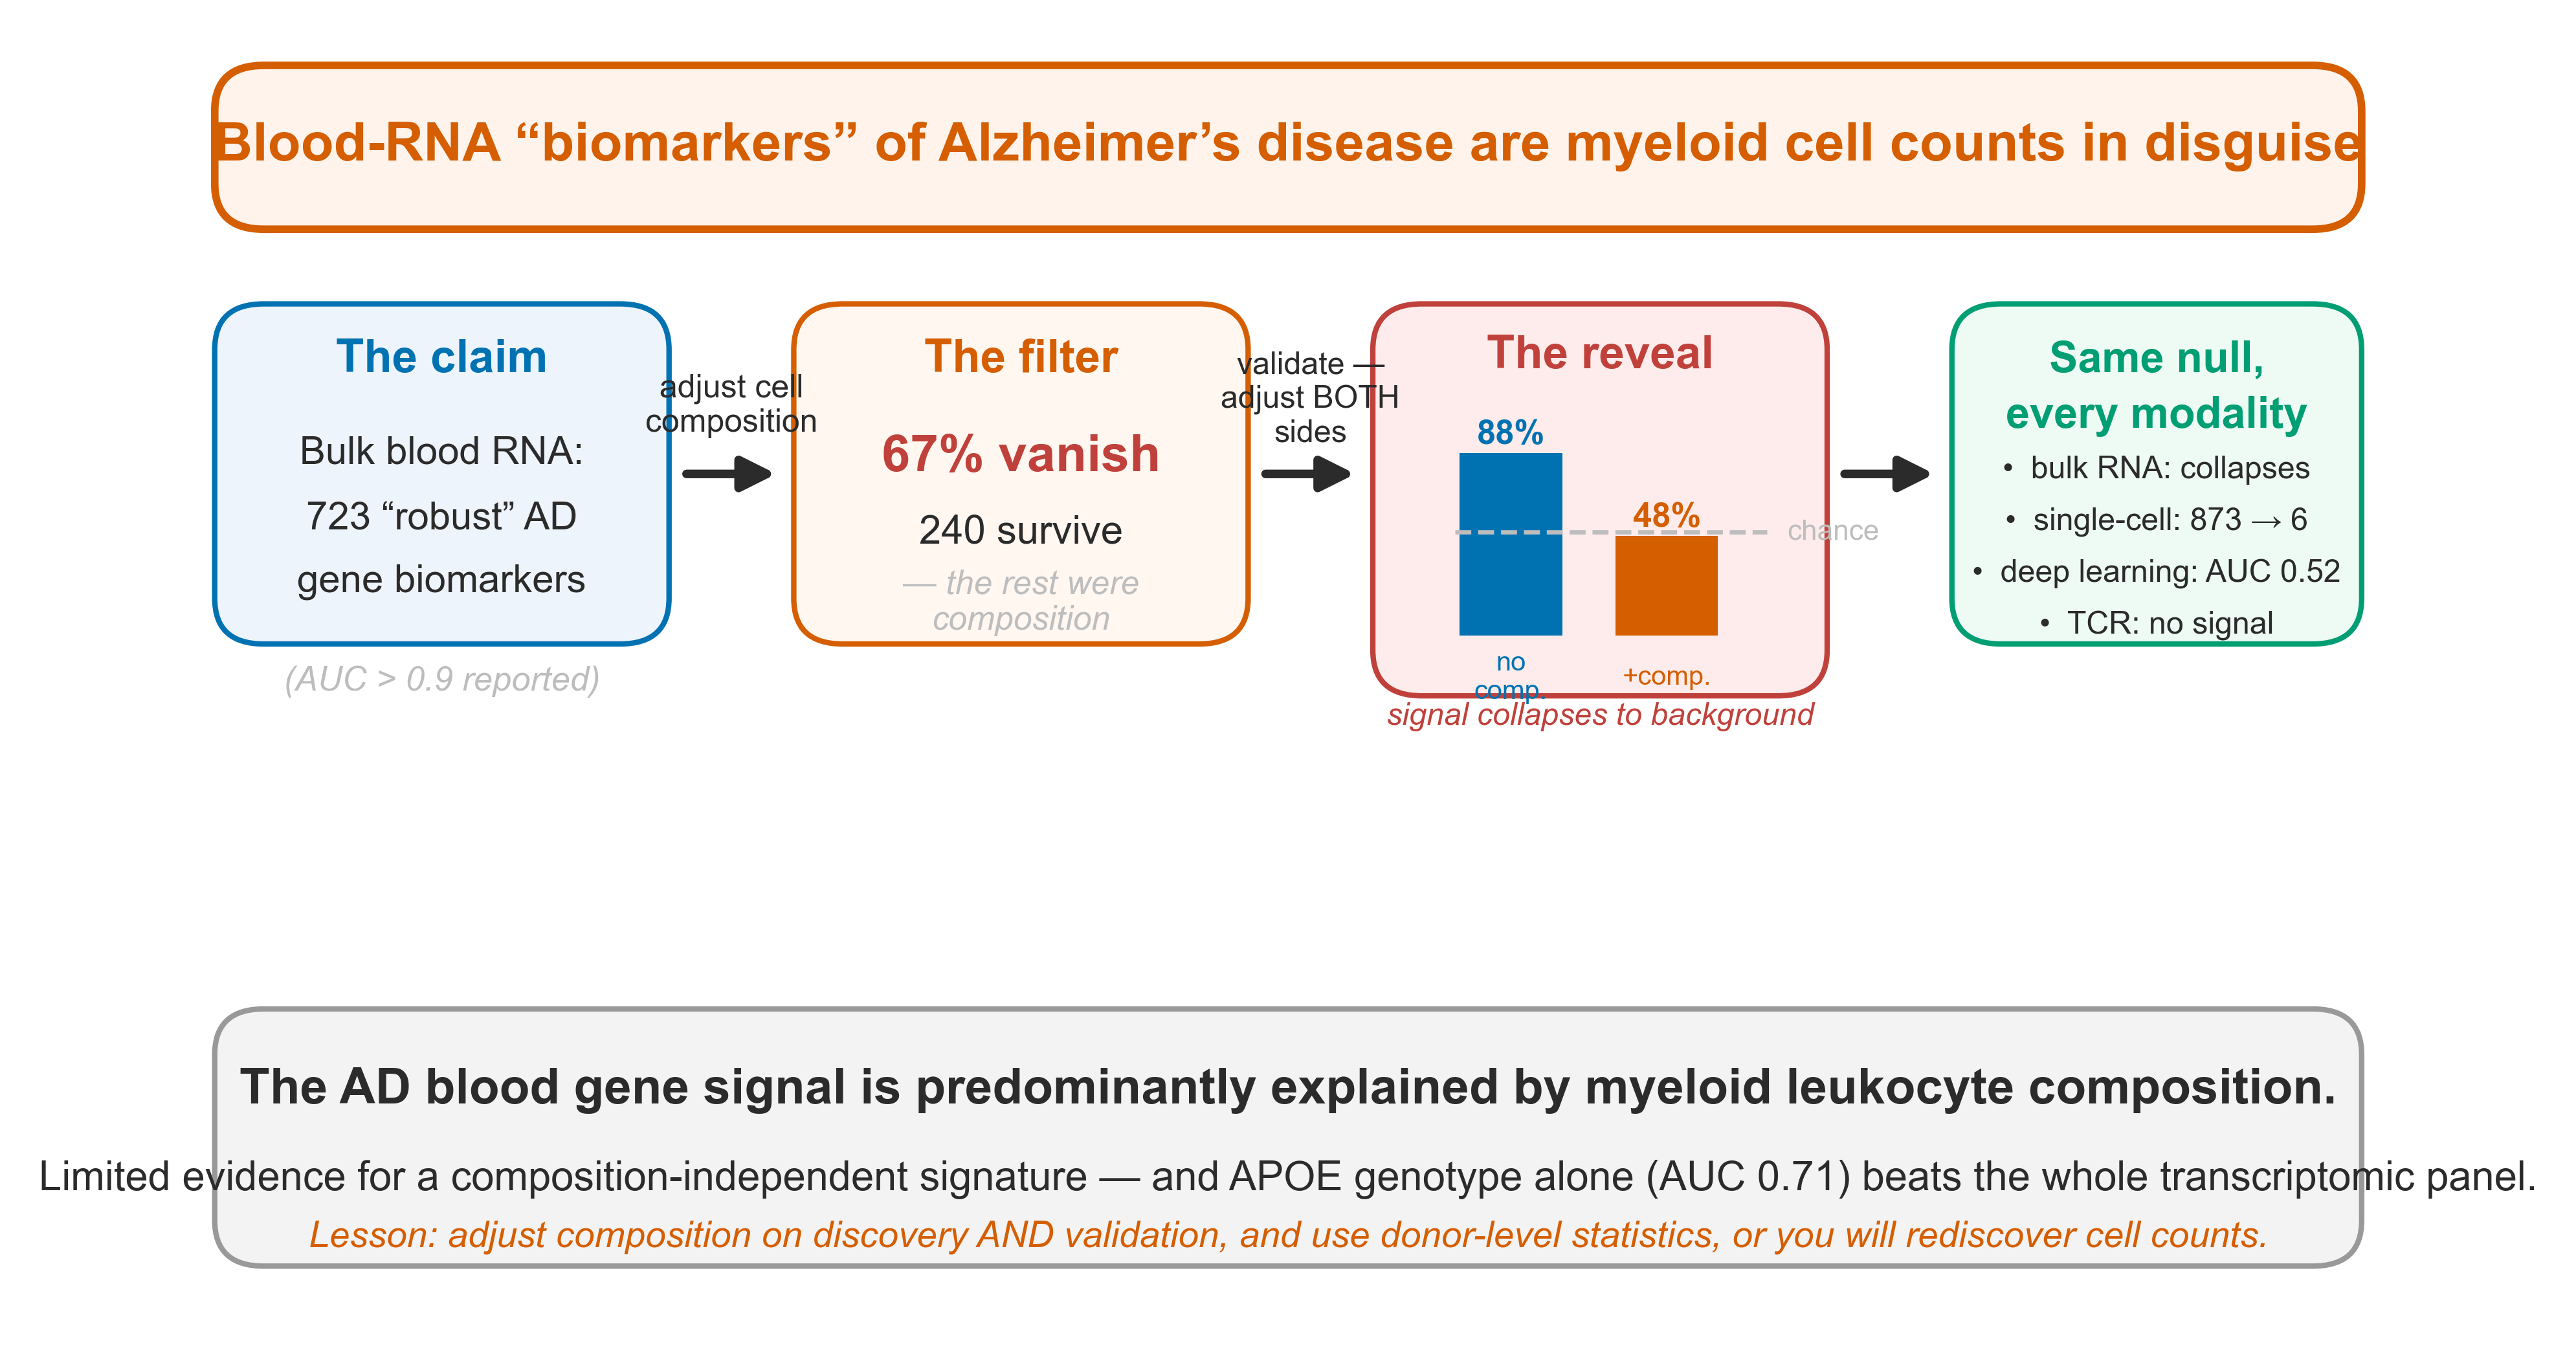
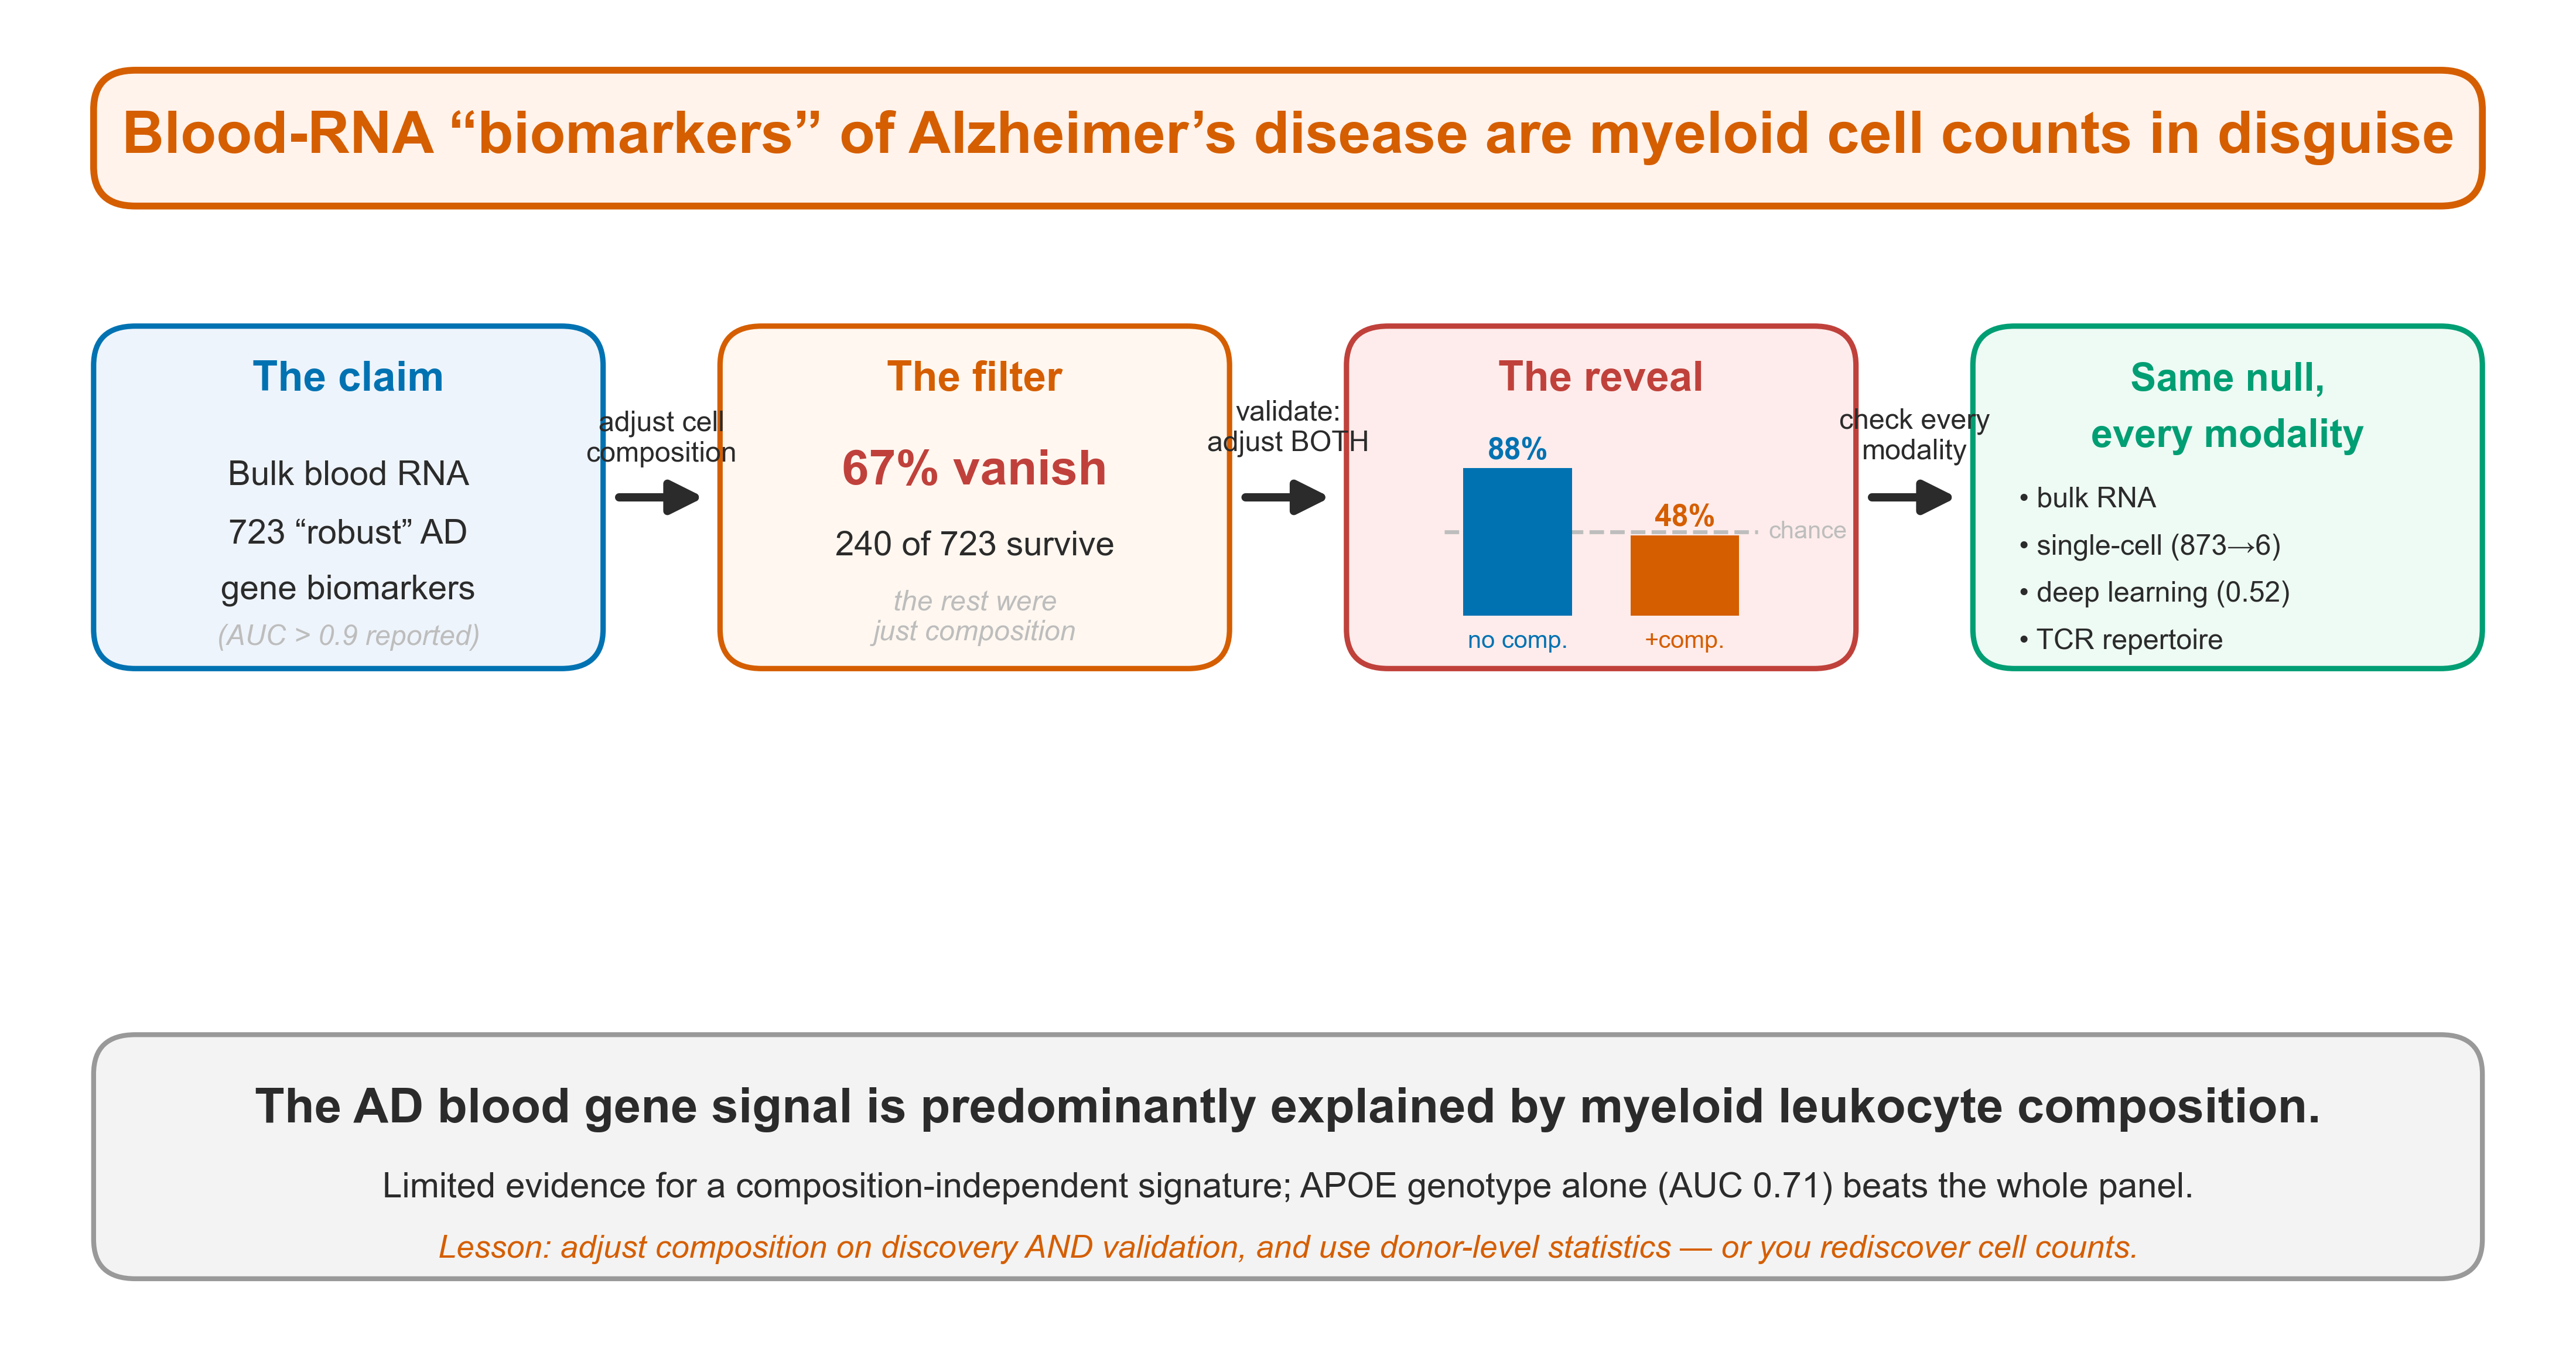
Update title, contact, ORCID, Zenodo DOI; refine graphical abstract; high-res figures only

diff --git a/script/Paper1_Step30_graphical_abstract.py b/script/Paper1_Step30_graphical_abstract.py
@@ -1,70 +1,77 @@
 #!/usr/bin/env python3
-"""Step 30: graphical abstract — the whole story as one clear visual narrative."""
+"""Step 30: graphical abstract — clean four-stage narrative, text constrained inside boxes."""
 import numpy as np, matplotlib as mpl
 mpl.use("Agg"); import matplotlib.pyplot as plt
 from matplotlib.patches import FancyBboxPatch, FancyArrowPatch
 mpl.rcParams.update({"pdf.fonttype":42,"font.family":"sans-serif",
     "font.sans-serif":["Arial","Helvetica","DejaVu Sans"]})
 B,O,Gy,Gn,Rd,Dk="#0072B2","#D55E00","#bdbdbd","#009E73","#c0413b","#2b2b2b"
-fig,ax=plt.subplots(figsize=(7.4,4.3)); ax.set_xlim(0,100); ax.set_ylim(0,62); ax.axis("off")
 
-def box(x,y,w,h,fc,ec,r=2.2,lw=1.0,a=1):
+# wider canvas so each stage box is roomy
+fig,ax=plt.subplots(figsize=(9.2,4.8)); ax.set_xlim(0,120); ax.set_ylim(0,66); ax.axis("off")
+
+def box(x,y,w,h,fc,ec,r=2.0,lw=1.1):
     ax.add_patch(FancyBboxPatch((x,y),w,h,boxstyle=f"round,pad=0.2,rounding_size={r}",
-                fc=fc,ec=ec,lw=lw,alpha=a,zorder=2))
-def arrow(x1,y1,x2,y2,c=Dk):
-    ax.add_patch(FancyArrowPatch((x1,y1),(x2,y2),arrowstyle="-|>",mutation_scale=13,lw=1.6,color=c,zorder=1))
+                fc=fc,ec=ec,lw=lw,zorder=2))
+def arrow(x1,x2,y,c=Dk):
+    ax.add_patch(FancyArrowPatch((x1,y),(x2,y),arrowstyle="-|>",mutation_scale=14,lw=1.7,color=c,zorder=1))
 def T(x,y,s,fs=8,w="normal",c=Dk,ha="center",va="center",it=False):
-    ax.text(x,y,s,fontsize=fs,fontweight=w,color=c,ha=ha,va=va,style="italic" if it else "normal",zorder=3)
+    ax.text(x,y,s,fontsize=fs,fontweight=w,color=c,ha=ha,va=va,
+            style="italic" if it else "normal",zorder=4)
 
-# ---- title / hook ----
-box(2,53,96,7.5,"#FFF3EC",O,lw=1.4)
-T(50,56.8,"Blood-RNA “biomarkers” of Alzheimer’s disease are myeloid cell counts in disguise",10.0,"bold",O)
+# ---- title ----
+box(3,57.5,114,6.5,"#FFF3EC",O,lw=1.4)
+T(60,60.8,"Blood-RNA “biomarkers” of Alzheimer’s disease are myeloid cell counts in disguise",12,"bold",O)
 
-# ---- Stage 1: the claim ----
-box(2,33,20,16,"#eef4fb",B)
-T(12,46.5,"The claim",8.5,"bold",B)
-T(12,42,"Bulk blood RNA:",7.2,c=Dk)
-T(12,38.8,"723 “robust” AD",7.2,c=Dk)
-T(12,35.8,"gene biomarkers",7.2,c=Dk)
-T(12,31.0,"(AUC > 0.9 reported)",6.3,c=Gy,it=True)
+# ---- four stage boxes: centers 16, 46, 76, 106 ; width 26 ; y 34..51 ----
+BY,BH=34,17
+boxes=[(3,"#eef4fb",B,"The claim"),(33,"#fff7f0",O,"The filter"),
+       (63,"#fdeceb",Rd,"The reveal"),(93,"#eefaf4",Gn,"Same null")]
+for x,fc,ec,lab in boxes:
+    box(x,BY,24,BH,fc,ec)
+cx=[15,45,75,105]   # box centres (x+12)
 
-# ---- Stage 2: de-confound ----
-arrow(22.5,41,27.5,41)
-T(25,44.3,"adjust cell\ncomposition",6.0,c=Dk)
-box(28,33,20,16,"#fff7f0",O)
-T(38,46.5,"The filter",8.5,"bold",O)
-T(38,41.8,"67% vanish",9.5,"bold",Rd)
-T(38,38.2,"240 survive",7.4,c=Dk)
-T(38,34.8,"— the rest were\ncomposition",6.2,c=Gy,it=True)
+# arrows between boxes (gaps: 27-33, 57-63, 87-93)
+for x1,x2 in [(27.5,32.5),(57.5,62.5),(87.5,92.5)]:
+    arrow(x1,x2,BY+BH/2)
+T(30,45.5,"adjust cell\ncomposition",5.8,c=Dk)
+T(60,46.0,"validate:\nadjust BOTH",5.8,c=Dk)
+T(90,45.6,"check every\nmodality",5.8,c=Dk)
 
-# ---- Stage 3: the reveal (validation collapse) ----
-arrow(48.5,41,53.5,41)
-T(51,44.6,"validate —\nadjust BOTH\nsides",5.8,c=Dk)
-box(54,30.5,20,18.5,"#fdeceb",Rd)
-T(64,46.7,"The reveal",8.5,"bold",Rd)
-# mini bar inside
-bx=[60,67]; bv=[88,48]; bc=[B,O]
+# Stage 1 — claim
+T(15,48.5,"The claim",8.5,"bold",B)
+T(15,43.6,"Bulk blood RNA",7,c=Dk)
+T(15,40.6,"723 “robust” AD",7,c=Dk)
+T(15,37.8,"gene biomarkers",7,c=Dk)
+T(15,35.4,"(AUC > 0.9 reported)",5.8,c=Gy,it=True)
+
+# Stage 2 — filter
+T(45,48.5,"The filter",8.5,"bold",O)
+T(45,43.8,"67% vanish",10,"bold",Rd)
+T(45,40.0,"240 of 723 survive",7,c=Dk)
+T(45,36.4,"the rest were\njust composition",5.8,c=Gy,it=True)
+
+# Stage 3 — reveal (mini bar fully inside box 63..87)
+T(75,48.5,"The reveal",8.5,"bold",Rd)
+bx=[71,79]; bv=[88,48]; bc=[B,O]; base=36.5; scale=0.085
+ax.plot([67.5,82.5],[base+50*scale,base+50*scale],"--",c=Gy,lw=0.8,zorder=3)  # ~chance
+T(83.0,base+50*scale,"chance",5.0,c=Gy,ha="left")
 for x,v,c in zip(bx,bv,bc):
-    ax.add_patch(plt.Rectangle((x-2.3,33.2),4.6,v*0.10,fc=c,ec="none",zorder=3))
-    T(x,33.0+v*0.10+1.1,f"{v}%",6.3,"bold",c)
-ax.plot([57.5,71.5],[33.2+5.0,33.2+5.0],"--",c=Gy,lw=0.8,zorder=4)  # chance line
-T(72.4,33.2+5.0,"chance",5.3,c=Gy,ha="left")
-T(60,31.2,"no\ncomp.",5.0,c=B); T(67,31.2,"+comp.",5.0,c=O)
-T(64,29.3,"signal collapses to background",5.8,c=Rd,it=True)
+    ax.add_patch(plt.Rectangle((x-2.6,base),5.2,v*scale,fc=c,ec="none",zorder=3))
+    T(x,base+v*scale+0.9,f"{v}%",6.2,"bold",c)
+T(71,35.2,"no comp.",5.0,c=B); T(79,35.2,"+comp.",5.0,c=O)
 
-# ---- Stage 4: multi-modal confirmation ----
-arrow(74.5,41,79.5,41)
-box(80,33,18,16,"#eefaf4",Gn)
-T(89,46.5,"Same null,",8.0,"bold",Gn)
-T(89,43.8,"every modality",8.0,"bold",Gn)
-for i,(s) in enumerate(["bulk RNA: collapses","single-cell: 873 → 6","deep learning: AUC 0.52","TCR: no signal"]):
-    T(89,41.2-i*2.5,"•  "+s,5.8,c=Dk,ha="center")
+# Stage 4 — same null (left-aligned bullets inside box 93..117)
+T(105,48.5,"Same null,",8,"bold",Gn)
+T(105,45.6,"every modality",8,"bold",Gn)
+for i,s in enumerate(["bulk RNA","single-cell (873→6)","deep learning (0.52)","TCR repertoire"]):
+    T(95,42.4-i*2.4,"• "+s,5.8,c=Dk,ha="left")
 
-# ---- bottom takeaway bar ----
-box(2,3,96,12,"#f3f3f3","#999",lw=1.0)
-T(50,11.3,"The AD blood gene signal is predominantly explained by myeloid leukocyte composition.",9.2,"bold",Dk)
-T(50,7.0,"Limited evidence for a composition-independent signature — and APOE genotype alone (AUC 0.71) beats the whole transcriptomic panel.",7.6,c=Dk)
-T(50,4.2,"Lesson: adjust composition on discovery AND validation, and use donor-level statistics, or you will rediscover cell counts.",6.8,c=O,it=True)
+# ---- bottom takeaway ----
+box(3,3,114,12,"#f3f3f3","#999",lw=1.0)
+T(60,11.4,"The AD blood gene signal is predominantly explained by myeloid leukocyte composition.",10,"bold",Dk)
+T(60,7.4,"Limited evidence for a composition-independent signature; APOE genotype alone (AUC 0.71) beats the whole panel.",7.2,c=Dk)
+T(60,4.3,"Lesson: adjust composition on discovery AND validation, and use donor-level statistics — or you rediscover cell counts.",6.6,c=O,it=True)
 
 fig.savefig("figures/pub/Graphical_Abstract.pdf",bbox_inches="tight")
 fig.savefig("figures/pub/Graphical_Abstract.png",dpi=600,bbox_inches="tight"); plt.close()

diff --git a/script/Paper1_Step34_md_to_docx.py b/script/Paper1_Step34_md_to_docx.py
@@ -1,0 +1,62 @@
+#!/usr/bin/env python3
+"""Step 34: convert a markdown file to a clean submission .docx (no embedded images).
+Handles headings, bold/italic/code inline, tables, bullet lists, hr.
+Usage: python3 Paper1_Step34_md_to_docx.py INPUT.md OUTPUT.docx
+"""
+import re, sys
+from docx import Document
+from docx.shared import Pt
+from docx.enum.text import WD_ALIGN_PARAGRAPH
+
+SRC, OUT = sys.argv[1], sys.argv[2]
+doc=Document()
+st=doc.styles["Normal"]; st.font.name="Times New Roman"; st.font.size=Pt(11)
+st.paragraph_format.line_spacing=1.5; st.paragraph_format.space_after=Pt(6)
+
+def add_runs(p, text):
+    for piece in re.split(r'(\*\*[^*]+\*\*|\*[^*]+\*|`[^`]+`)', text):
+        if not piece: continue
+        if piece.startswith("**") and piece.endswith("**"):
+            r=p.add_run(piece[2:-2]); r.bold=True
+        elif piece.startswith("*") and piece.endswith("*"):
+            r=p.add_run(piece[1:-1]); r.italic=True
+        elif piece.startswith("`") and piece.endswith("`"):
+            r=p.add_run(piece[1:-1]); r.font.name="Courier New"
+        else:
+            p.add_run(piece)
+
+lines=open(SRC,encoding="utf-8").read().split("\n")
+i=0
+while i<len(lines):
+    ln=lines[i].rstrip()
+    if not ln.strip(): i+=1; continue
+    if re.match(r'^-{3,}$', ln): i+=1; continue
+    m=re.match(r'^(#{1,4})\s+(.*)', ln)
+    if m:
+        lvl=len(m.group(1)); txt=re.sub(r'\*\*','',m.group(2))
+        h=doc.add_heading(level=min(lvl,4)); add_runs(h,txt)
+        for r in h.runs: r.font.name="Times New Roman"
+        i+=1; continue
+    if ln.lstrip().startswith("|"):
+        rows=[]
+        while i<len(lines) and lines[i].lstrip().startswith("|"):
+            cells=[c.strip() for c in lines[i].strip().strip("|").split("|")]
+            if not re.match(r'^[-:\s|]+$', lines[i].strip().strip("|")): rows.append(cells)
+            i+=1
+        if rows:
+            t=doc.add_table(rows=len(rows),cols=len(rows[0])); t.style="Light Grid Accent 1"
+            for ri,row in enumerate(rows):
+                for ci,cell in enumerate(row):
+                    if ci<len(t.rows[ri].cells):
+                        cp=t.rows[ri].cells[ci].paragraphs[0]; cp.paragraph_format.line_spacing=1.0
+                        add_runs(cp, cell)
+                        for rn in cp.runs: rn.font.size=Pt(9)
+        continue
+    if re.match(r'^\s*[-*]\s+', ln):
+        p=doc.add_paragraph(style="List Bullet"); add_runs(p, re.sub(r'^\s*[-*]\s+','',ln))
+    else:
+        p=doc.add_paragraph(); add_runs(p, ln)
+    i+=1
+
+doc.save(OUT)
+print(f"Saved {OUT}")

diff --git a/README.md b/README.md
@@ -2,8 +2,8 @@
 
 Analysis code and reproducibility materials for the manuscript:
 
-> **Peripheral blood molecular signatures of Alzheimer's disease are predominantly explained by myeloid leukocyte composition: a multi-modal de-confounding audit.**
-> Alimujiang Tudiyusufu (Independent Researcher). Unfunded; no competing interests.
+> **Blood gene-expression biomarkers of Alzheimer's disease mainly reflect immune-cell composition, not disease-specific gene activity: a multi-modal audit.**
+> Alimujiang Tudiyusufu. Unfunded; no competing interests. Contact: [email redacted]
 
 A multi-modal audit (bulk transcriptomics, single-cell RNA-seq, a deep generative
 embedding, and the single-cell TCR repertoire; ~1,350 participants) testing whether the

diff --git a/docs/Paper1_Supplementary_Materials.md b/docs/Paper1_Supplementary_Materials.md
@@ -1,6 +1,6 @@
 # Supplementary Materials
 
-**Peripheral blood molecular signatures of Alzheimer's disease are predominantly explained by myeloid leukocyte composition: a multi-modal de-confounding audit**
+**Blood gene-expression biomarkers of Alzheimer's disease mainly reflect immune-cell composition, not disease-specific gene activity: a multi-modal audit**
 
 Contents: Supplementary Methods · Supplementary Note (robustness analyses S1–S20) · Supplementary Table S1 · Supplementary Figure S1.
 